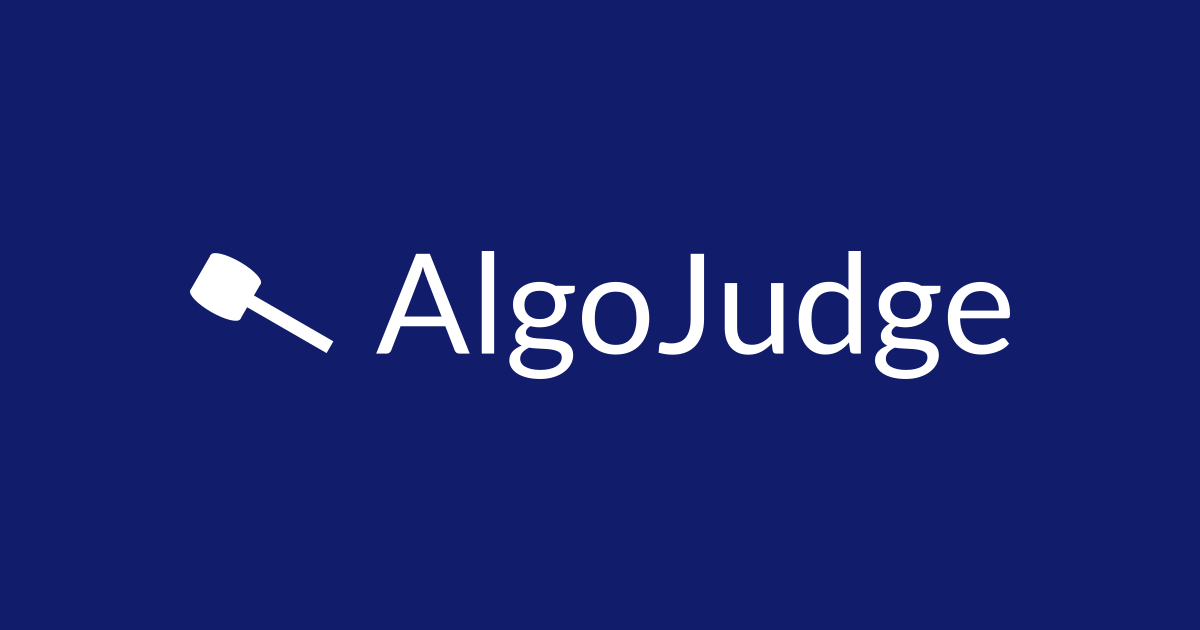
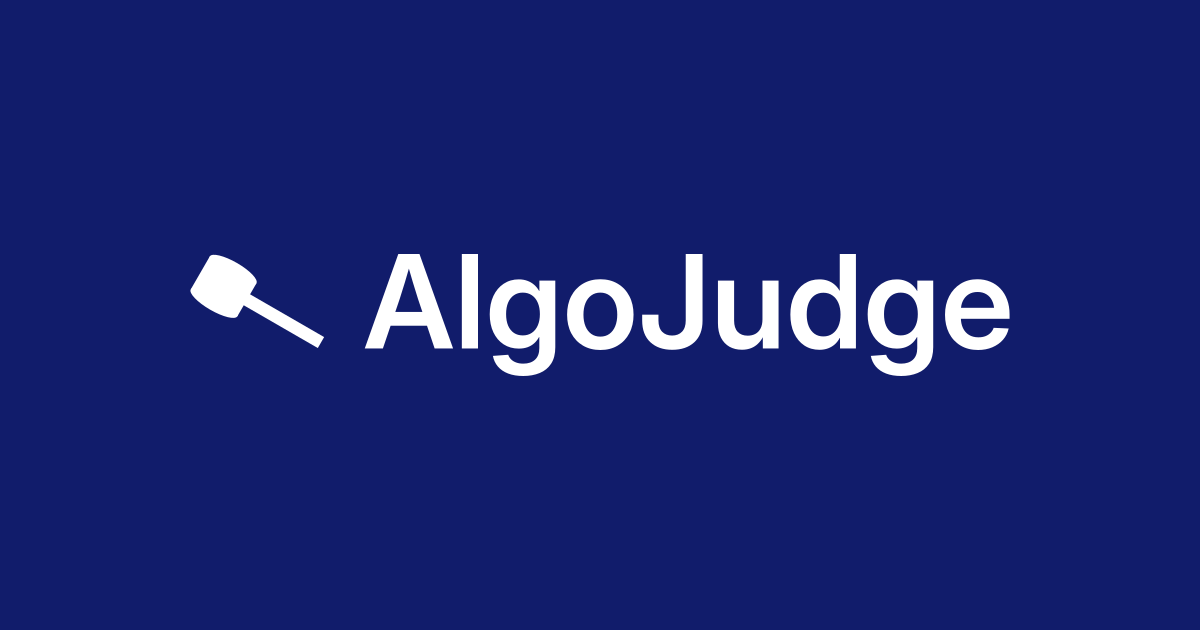
The mark, refreshed
The copy, the card generated from it, and the hash that says which source it
came from. The square icon is untouched: it is built from rectangles and
ellipses and carries no letterform, so the typeface change does not reach it.

diff --git a/BRANDING.md b/BRANDING.md
@@ -8,7 +8,7 @@ divergence.
 | File here | Copied from | SHA-256 |
 |---|---|---|
[3 lines of base64/hex data omitted]
 
 ```bash
 sha256sum app/icon.svg public/algojudge-dark.svg
@@ -25,10 +25,10 @@ git -C ../AlgoJudge-Website show HEAD:src/app/icon.svg | sha256sum
 ```
 
 **The square mark comes from `AlgoJudge-Website` rather than from Assets**, and
-deliberately: Assets holds the wordmark, which is 241×38 and unreadable at 32
-pixels. The Website already derived a square icon from it for `algojudge.pl`,
-and a documentation site on the same domain should carry the same one rather
-than a second interpretation of the same mark.
+deliberately: Assets holds the wordmark, whose proportion is close to 7:1 and
+unreadable at 32 pixels. The Website already derived a square icon from it for
+`algojudge.pl`, and a documentation site on the same domain should carry the
+same one rather than a second interpretation of the same mark.
 
 `public/og.png` is **generated** from `public/algojudge-dark.svg` by
 `npm run og`, and committed. The wordmark is paths rather than text, so the card
